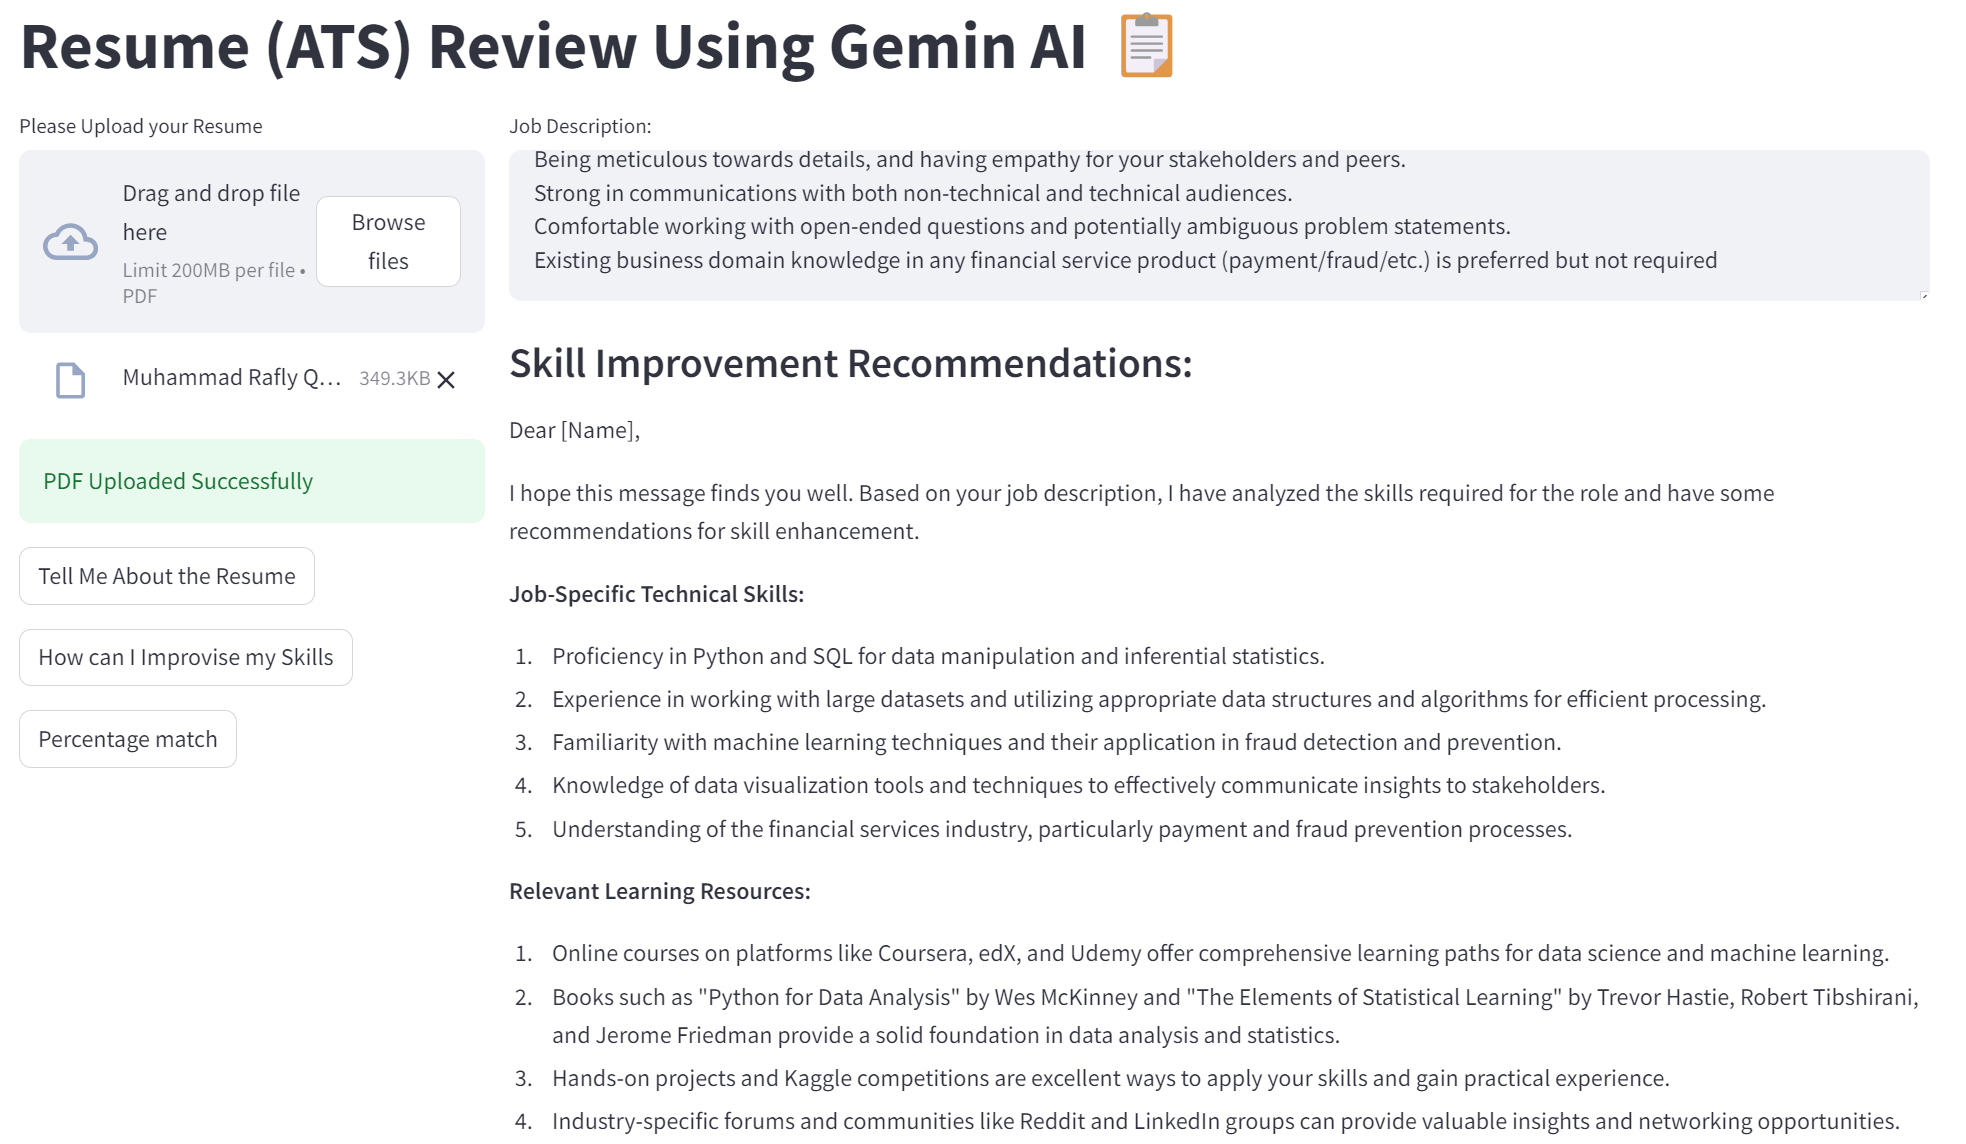
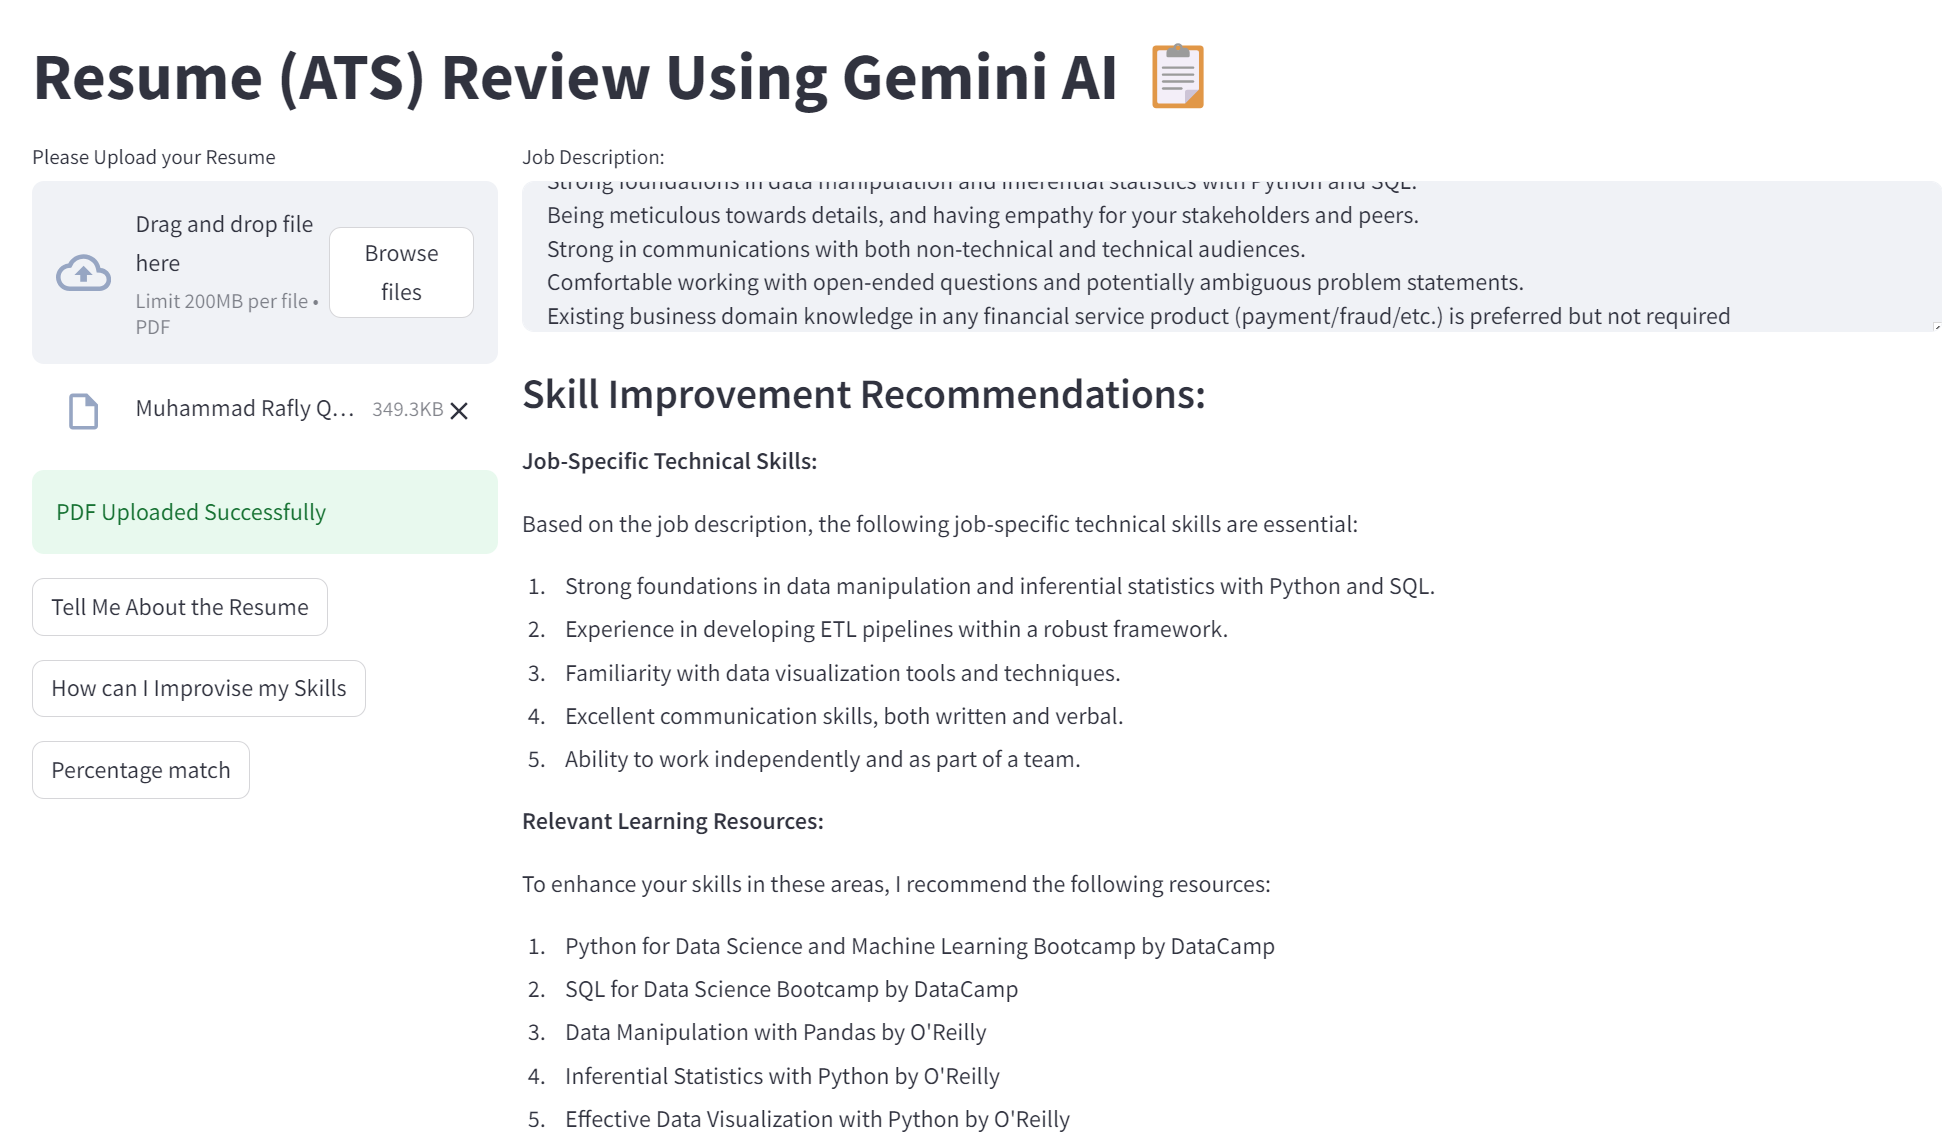
new update

diff --git a/ATS Review Using Gemini AI/app.py b/ATS Review Using Gemini AI/app.py
@@ -5,13 +5,13 @@ from utils import *
 
 def main():
     st.set_page_config(
-        page_title="Resume (ATS) Review Using Gemin AI",
+        page_title="Resume (ATS) Review Using Gemini AI",
         page_icon="📋",
         layout="wide"
     )
 
     # st.write(css, unsafe_allow_html=True)
-    st.title("Resume (ATS) Review Using Gemin AI 📋")
+    st.title("Resume (ATS) Review Using Gemini AI 📋")
 
     col1, col2 = st.columns([1, 3])
     
